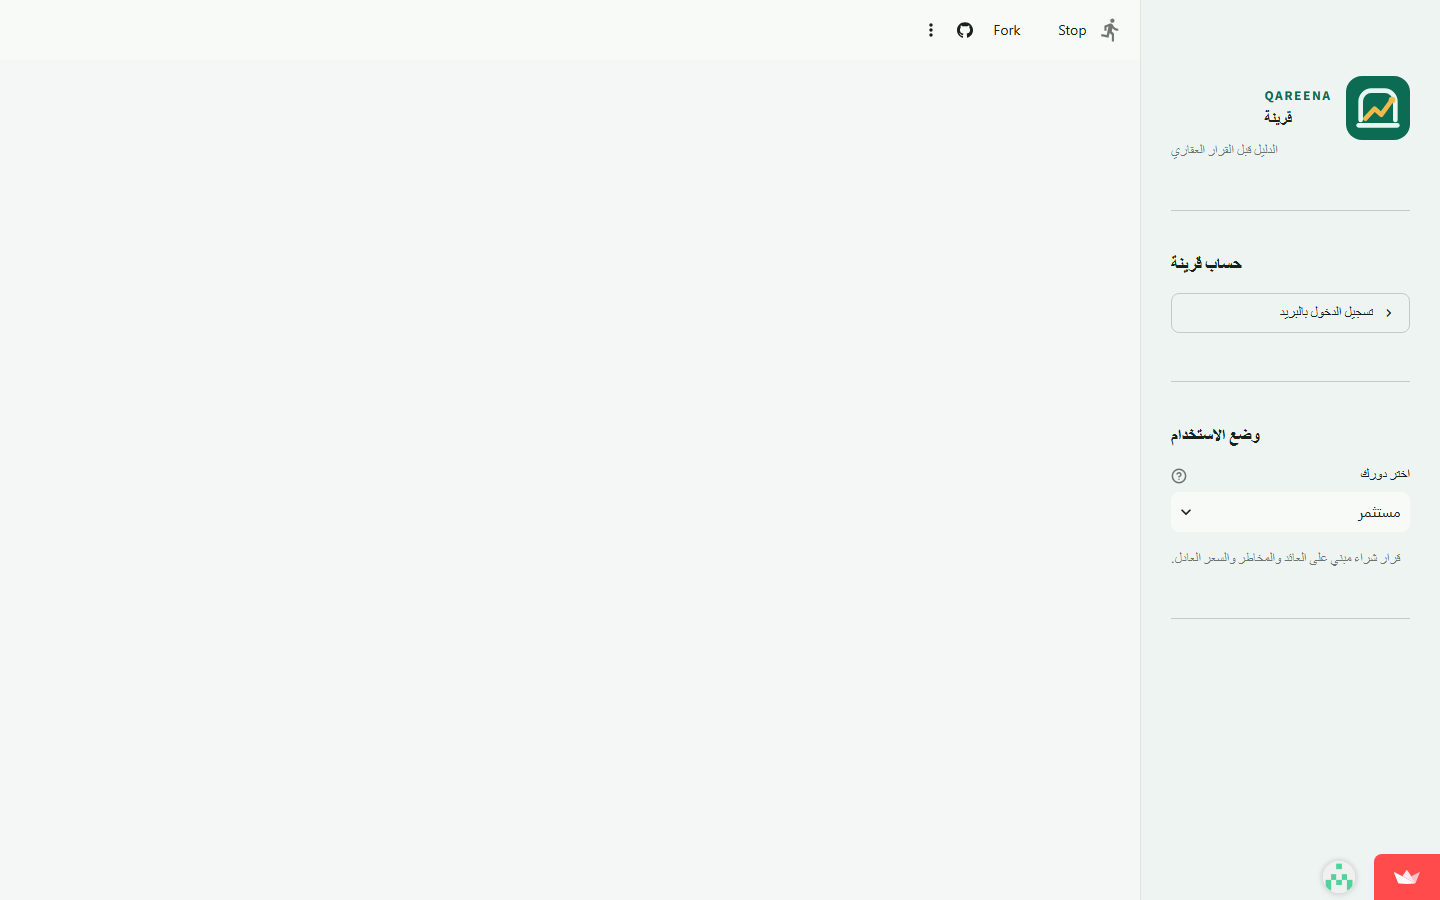
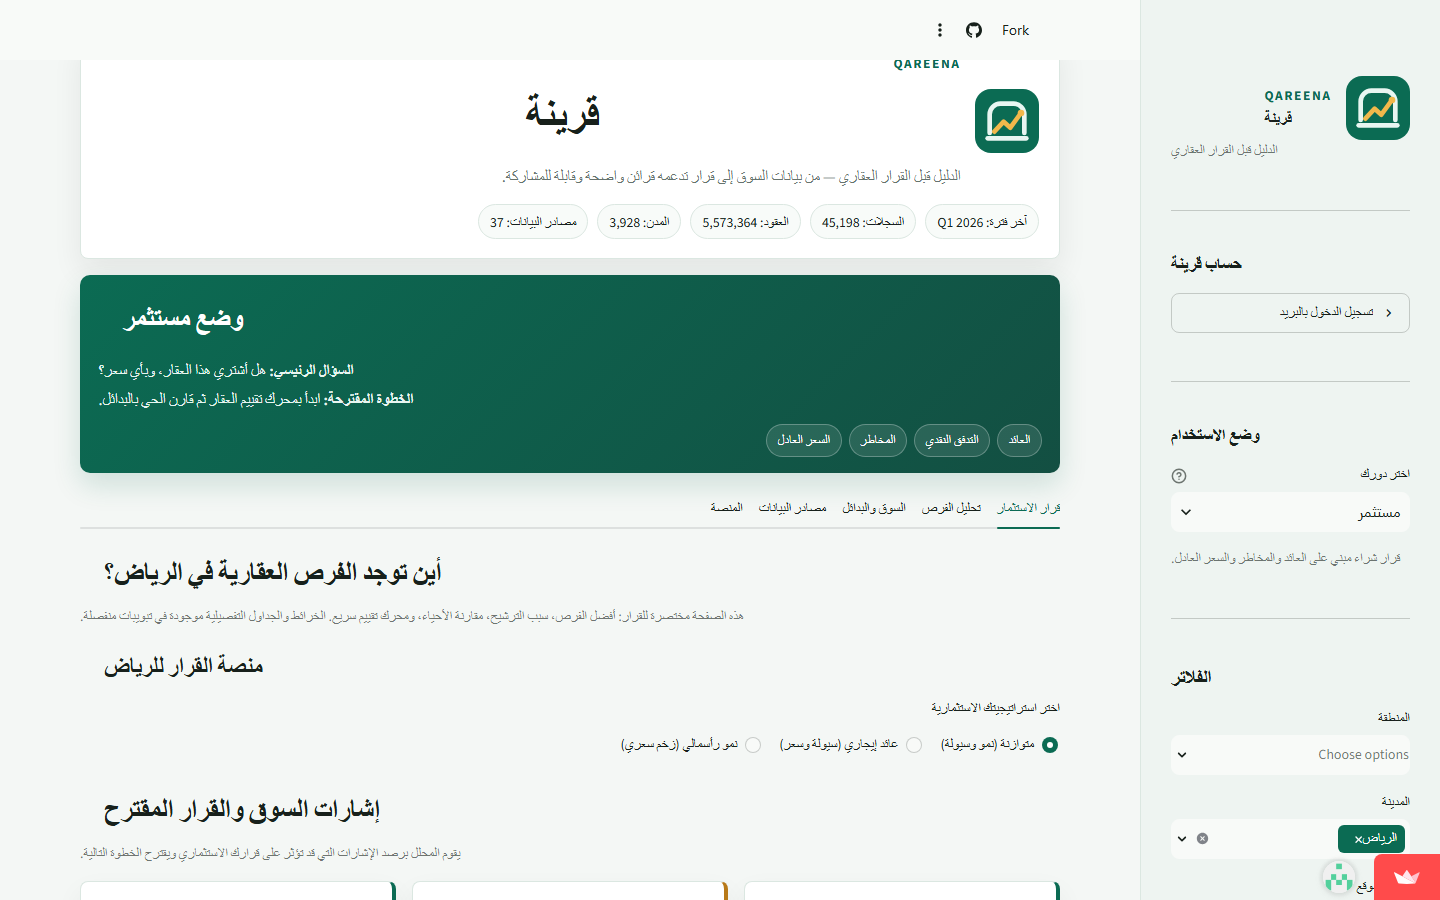
Improve project screenshots

diff --git a/profile.css b/profile.css
@@ -161,11 +161,21 @@
 }
 
 .project-shot-real-estate img {
-  object-position: right top;
+  object-position: center top;
+}
+
+.project-shot-sales img {
+  object-position: center 62%;
+  transform: scale(1.12);
+  transform-origin: center 62%;
 }
 
 .project-card:hover .project-shot img {
   transform: scale(1.025);
+}
+
+.project-card:hover .project-shot-sales img {
+  transform: scale(1.17);
 }
 
 .project-private {

diff --git a/index.html b/index.html
@@ -100,7 +100,7 @@
       </div>
       <div class="project-grid" id="project-grid" aria-live="polite">
         <article class="project-card reveal">
-          <figure class="project-shot"><img src="assets/saudi-sales-dashboard.png" alt="Saudi Sales Dashboard showing sales KPIs, product performance, inventory alerts, and forecasts" width="1440" height="900"></figure>
+          <figure class="project-shot project-shot-sales"><img src="assets/saudi-sales-dashboard.png" alt="Saudi Sales Dashboard showing sales KPIs, product performance, inventory alerts, and forecasts" width="1440" height="900"></figure>
           <div class="project-meta"><span>01 · COMMERCIAL ANALYTICS</span><span>Python / Forecasting</span></div>
           <h3>Saudi Sales Dashboard</h3>
           <p>An Arabic-first analytics product for Saudi retailers, turning sales files into actionable KPIs, profitability insights, inventory alerts, customer and channel analysis, and forward-looking forecasts.</p>